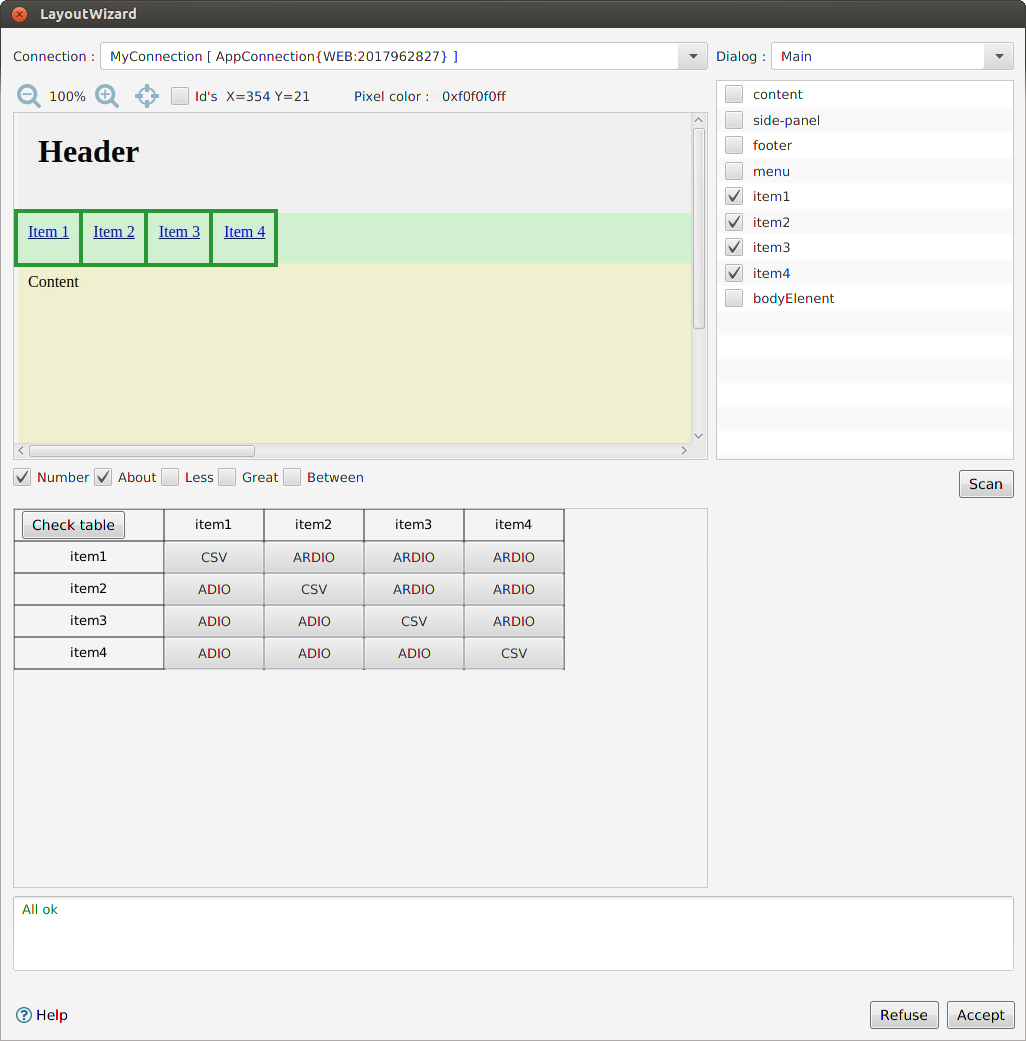
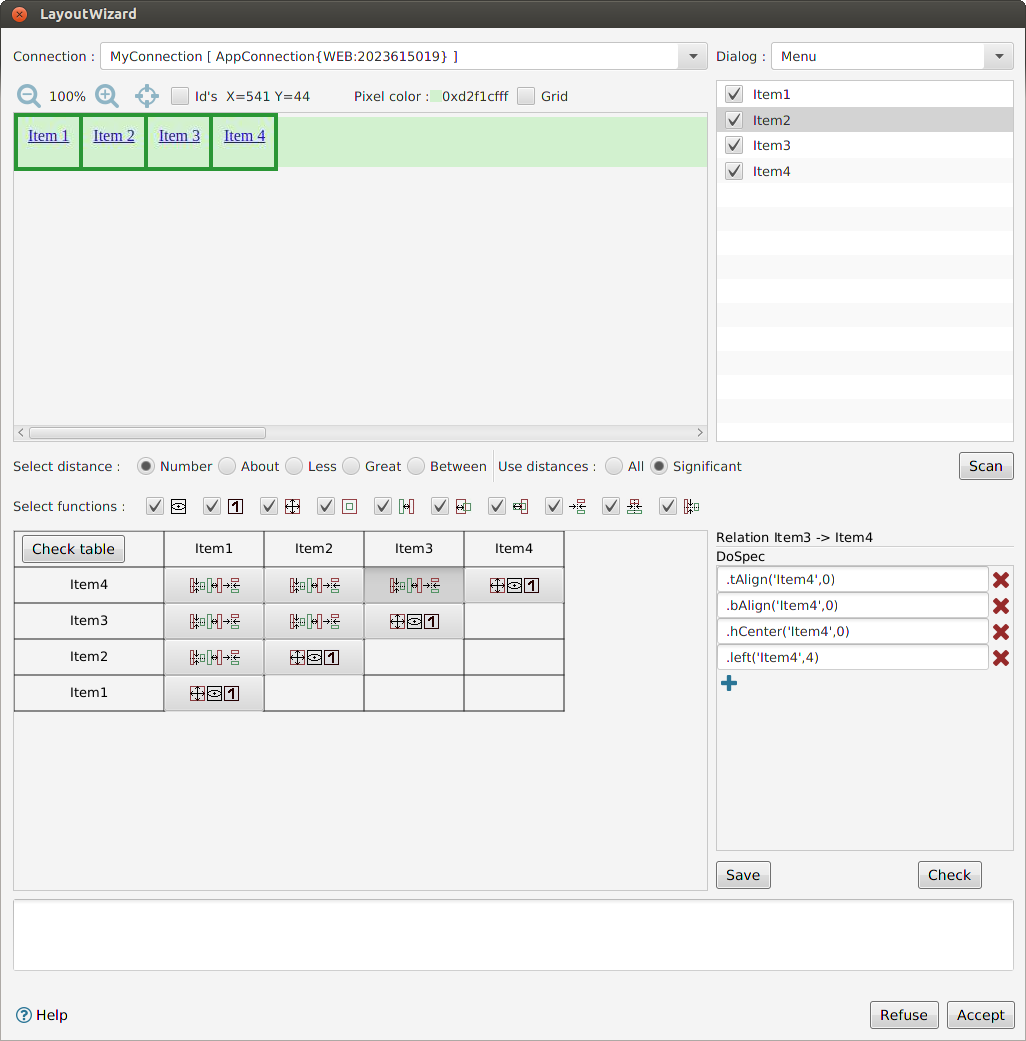
Feature #43858 Check layout wizard

diff --git a/core/src/com/exactprosystems/jf/tool/wizard/all/LayoutWizard.java b/core/src/com/exactprosystems/jf/tool/wizard/all/LayoutWizard.java
@@ -76,11 +76,23 @@ import static com.exactprosystems.jf.tool.Common.bundle;
 				+ "{{`In top left corner will appear image of selected dialog.`}}"
 				+ "{{`Then you need to select one or more controls in the list or the image.`}}"
 				+ "{{`After it you may check options under image:`}}"
-				+ "{{`CheckBox {{$Number$}} - will generate DoSpec function with number. E.g. {{$DoSpec.width(10)$}}.`}}"
-				+ "{{`CheckBox {{$About$}} - will generate DoSpec function with function about. Boundary values from 90% to 110%. E.g. {{$DoSpec.width(about(10))$}}.`}}"
-				+ "{{`CheckBox {{$Less$}} - will generate DoSpec function with function less. E.g. {{$DoSpec.width(less(11))$}}.`}}"
-				+ "{{`CheckBox {{$Great$}} - will generate DoSpec function with function great. E.g. {{$DoSpec.width(great(9))$}}.`}}"
-				+ "{{`CheckBox {{$Between$}} - will generate DoSpec function with function great.Boundary values from 0% to 200% E.g. {{$DoSpec.width(between(0, 20))$}}.`}}"
+				+ "{{`RadioButton {{$Number$}} - will generate DoSpec function with number. E.g. {{$DoSpec.width(10)$}}.`}}"
+				+ "{{`RadioButton {{$About$}} - will generate DoSpec function with function about. Boundary values from 90% to 110%. E.g. {{$DoSpec.width(about(10))$}}.`}}"
+				+ "{{`RadioButton {{$Less$}} - will generate DoSpec function with function less. E.g. {{$DoSpec.width(less(11))$}}.`}}"
+				+ "{{`RadioButton {{$Great$}} - will generate DoSpec function with function great. E.g. {{$DoSpec.width(great(9))$}}.`}}"
+				+ "{{`RadioButton {{$Between$}} - will generate DoSpec function with function great.Boundary values from 0% to 200% E.g. {{$DoSpec.width(between(0, 20))$}}.`}}"
+				+ "{{`After you need choose which distance will generating : {{$All$}} or only {{$Significant$}}.`}}"
+				+ "{{`Then you may select or deselect group functions : `}}"
+				+ "{{`visible : {{*DoSpec.visible*}}`}}"
+				+ "{{`count : {{*DoSpec.count*}}`}}"
+				+ "{{`dimension : {{*DoSpec.width*}} and {{*DoSpec.height*}}`}}"
+				+ "{{`contains : {{*DoSpec.contains*}}`}}"
+				+ "{{`near : {{*DoSpec.left*}}, {{*DoSpec.right*}}, {{*DoSpec.top*}} and {{*DoSpec.bottom*}}`}}"
+				+ "{{`in-functions : {{*DoSpec.inLeft*}}, {{*DoSpec.inRight*}}, {{*DoSpec.inTop*}} and {{*DoSpec.inBottom*}}`}}"
+				+ "{{`on-functions : {{*DoSpec.onLeft*}}, {{*DoSpec.onRight*}}, {{*DoSpec.onTop*}} and {{*DoSpec.onBottom*}}`}}"
+				+ "{{`align : {{*DoSpec.lAlign*}}, {{*DoSpec.rAlign*}}, {{*DoSpec.tAlign*}} and {{*DoSpec.bAlign*}}`}}`}}"
+				+ "{{`horizontal centered : {{*DoSpec.hCentered*}}`}}"
+				+ "{{`vertical centered : {{*DoSpec.vCentered*}}`}}"
 				+ "{{`For selected controls will be generated the table with relations between controls.`}}"
 				+ "{{`User can see created relation by switching a toggle button at intersection controls.`}}"
 				+ "{{`User can edit created relation (add/remove/edit functions) and {{$save$}} it or {{$check$}}.`}}"
@@ -316,7 +328,7 @@ public class LayoutWizard extends AbstractWizard
 			this.rbAll.setToggleGroup(this.allOrSignificantGroup);
 			this.rbSignificant = new RadioButton("Significant");
 			this.rbSignificant.setToggleGroup(this.allOrSignificantGroup);
-			this.rbAll.setSelected(true);
+			this.rbSignificant.setSelected(true);
 
 			cbBoxes.getChildren().addAll(
 					  Common.createSpacer(Common.SpacerEnum.HorizontalMin)
@@ -441,7 +453,15 @@ public class LayoutWizard extends AbstractWizard
 		{
 			for (int j = 1; j < lines[i].length; j++)
 			{
-				lines[j][i] = iterator.next().toString();
+				Spec next = iterator.next();
+				if (next != null)
+				{
+					lines[j][i] = next.toString();
+				}
+				else
+				{
+					lines[j][i] = "";
+				}
 			}
 		}
 		CommandBuilder builder = CommandBuilder.start();
@@ -1295,7 +1315,7 @@ public class LayoutWizard extends AbstractWizard
 				{
 					continue;
 				}
-				if (checkRelationTask.isCancelled())
+				if (checkRelationTask != null && checkRelationTask.isCancelled())
 				{
 					return null;
 				}
@@ -1330,11 +1350,8 @@ public class LayoutWizard extends AbstractWizard
 		{
 			this.formula = formula;
 			Iterator<Piece> iterator = this.formula.iterator();
-			Set<Image> set = new HashSet<>();
-			iterator.forEachRemaining(piece ->
-			{
-				set.add(map.get(piece.getKind()));
-			});
+			Set<Image> set = new LinkedHashSet<>();
+			iterator.forEachRemaining(piece -> set.add(map.get(piece.getKind())));
 			FlowPane pane = new FlowPane();
 			pane.alignmentProperty().set(Pos.CENTER);
 			pane.getChildren().addAll(set.stream().map(ImageView::new).collect(Collectors.toList()));
